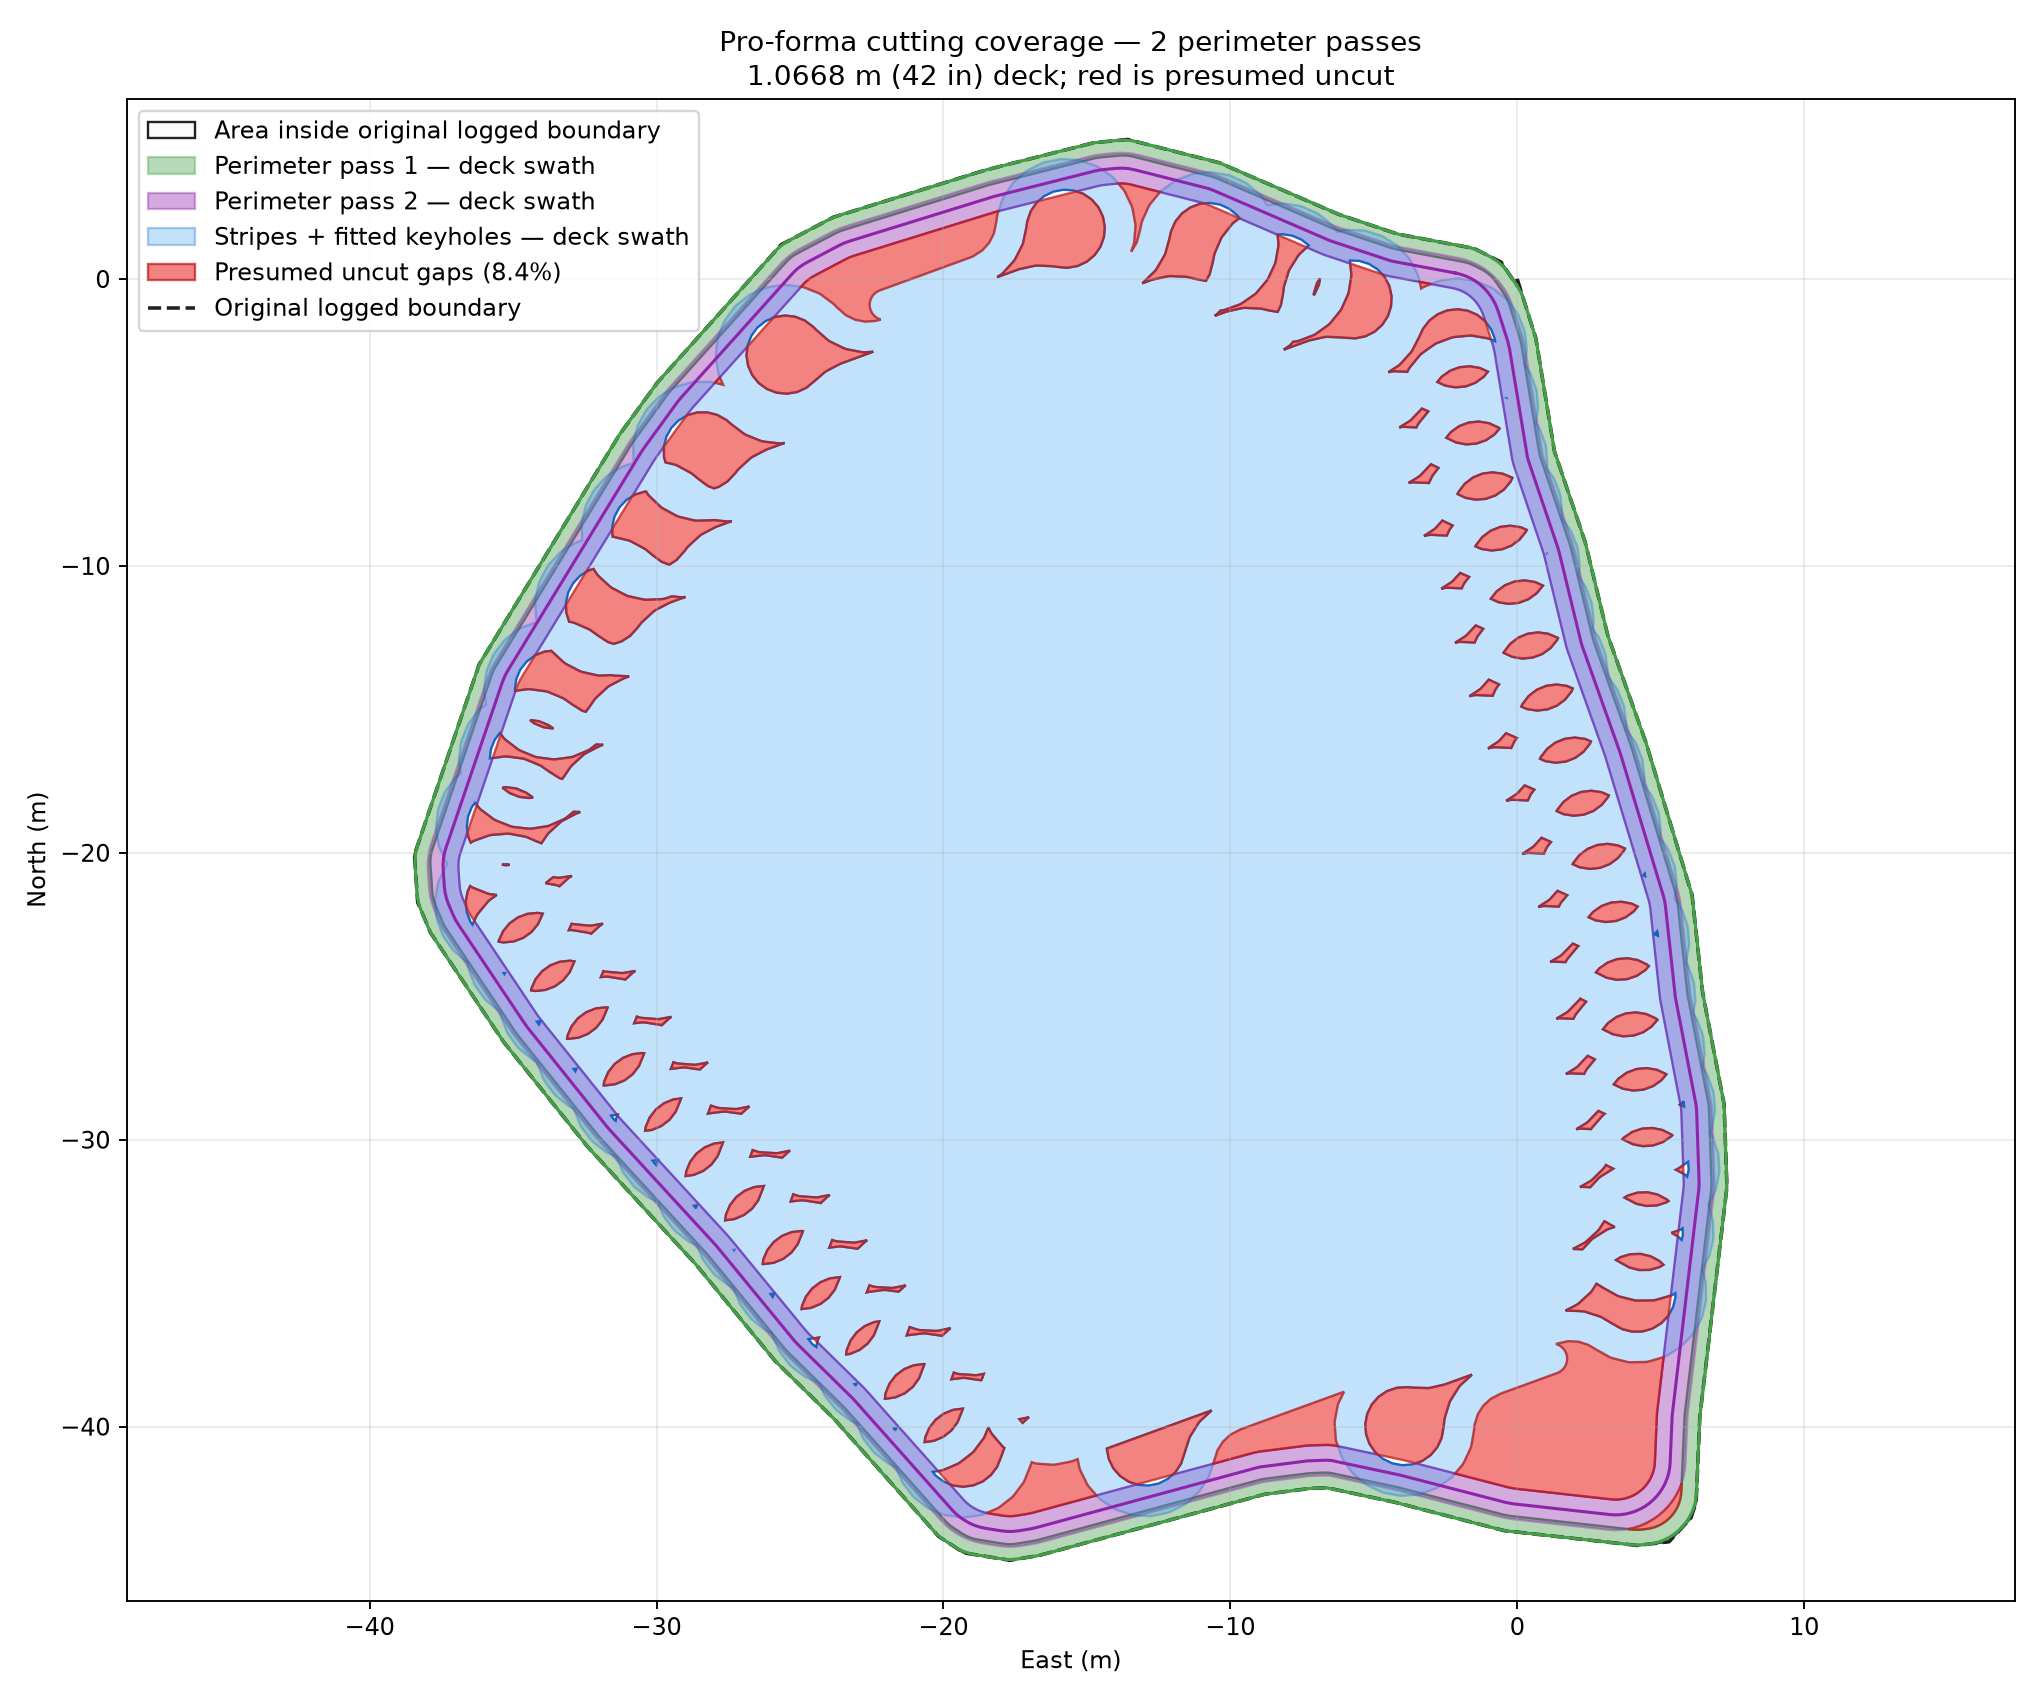
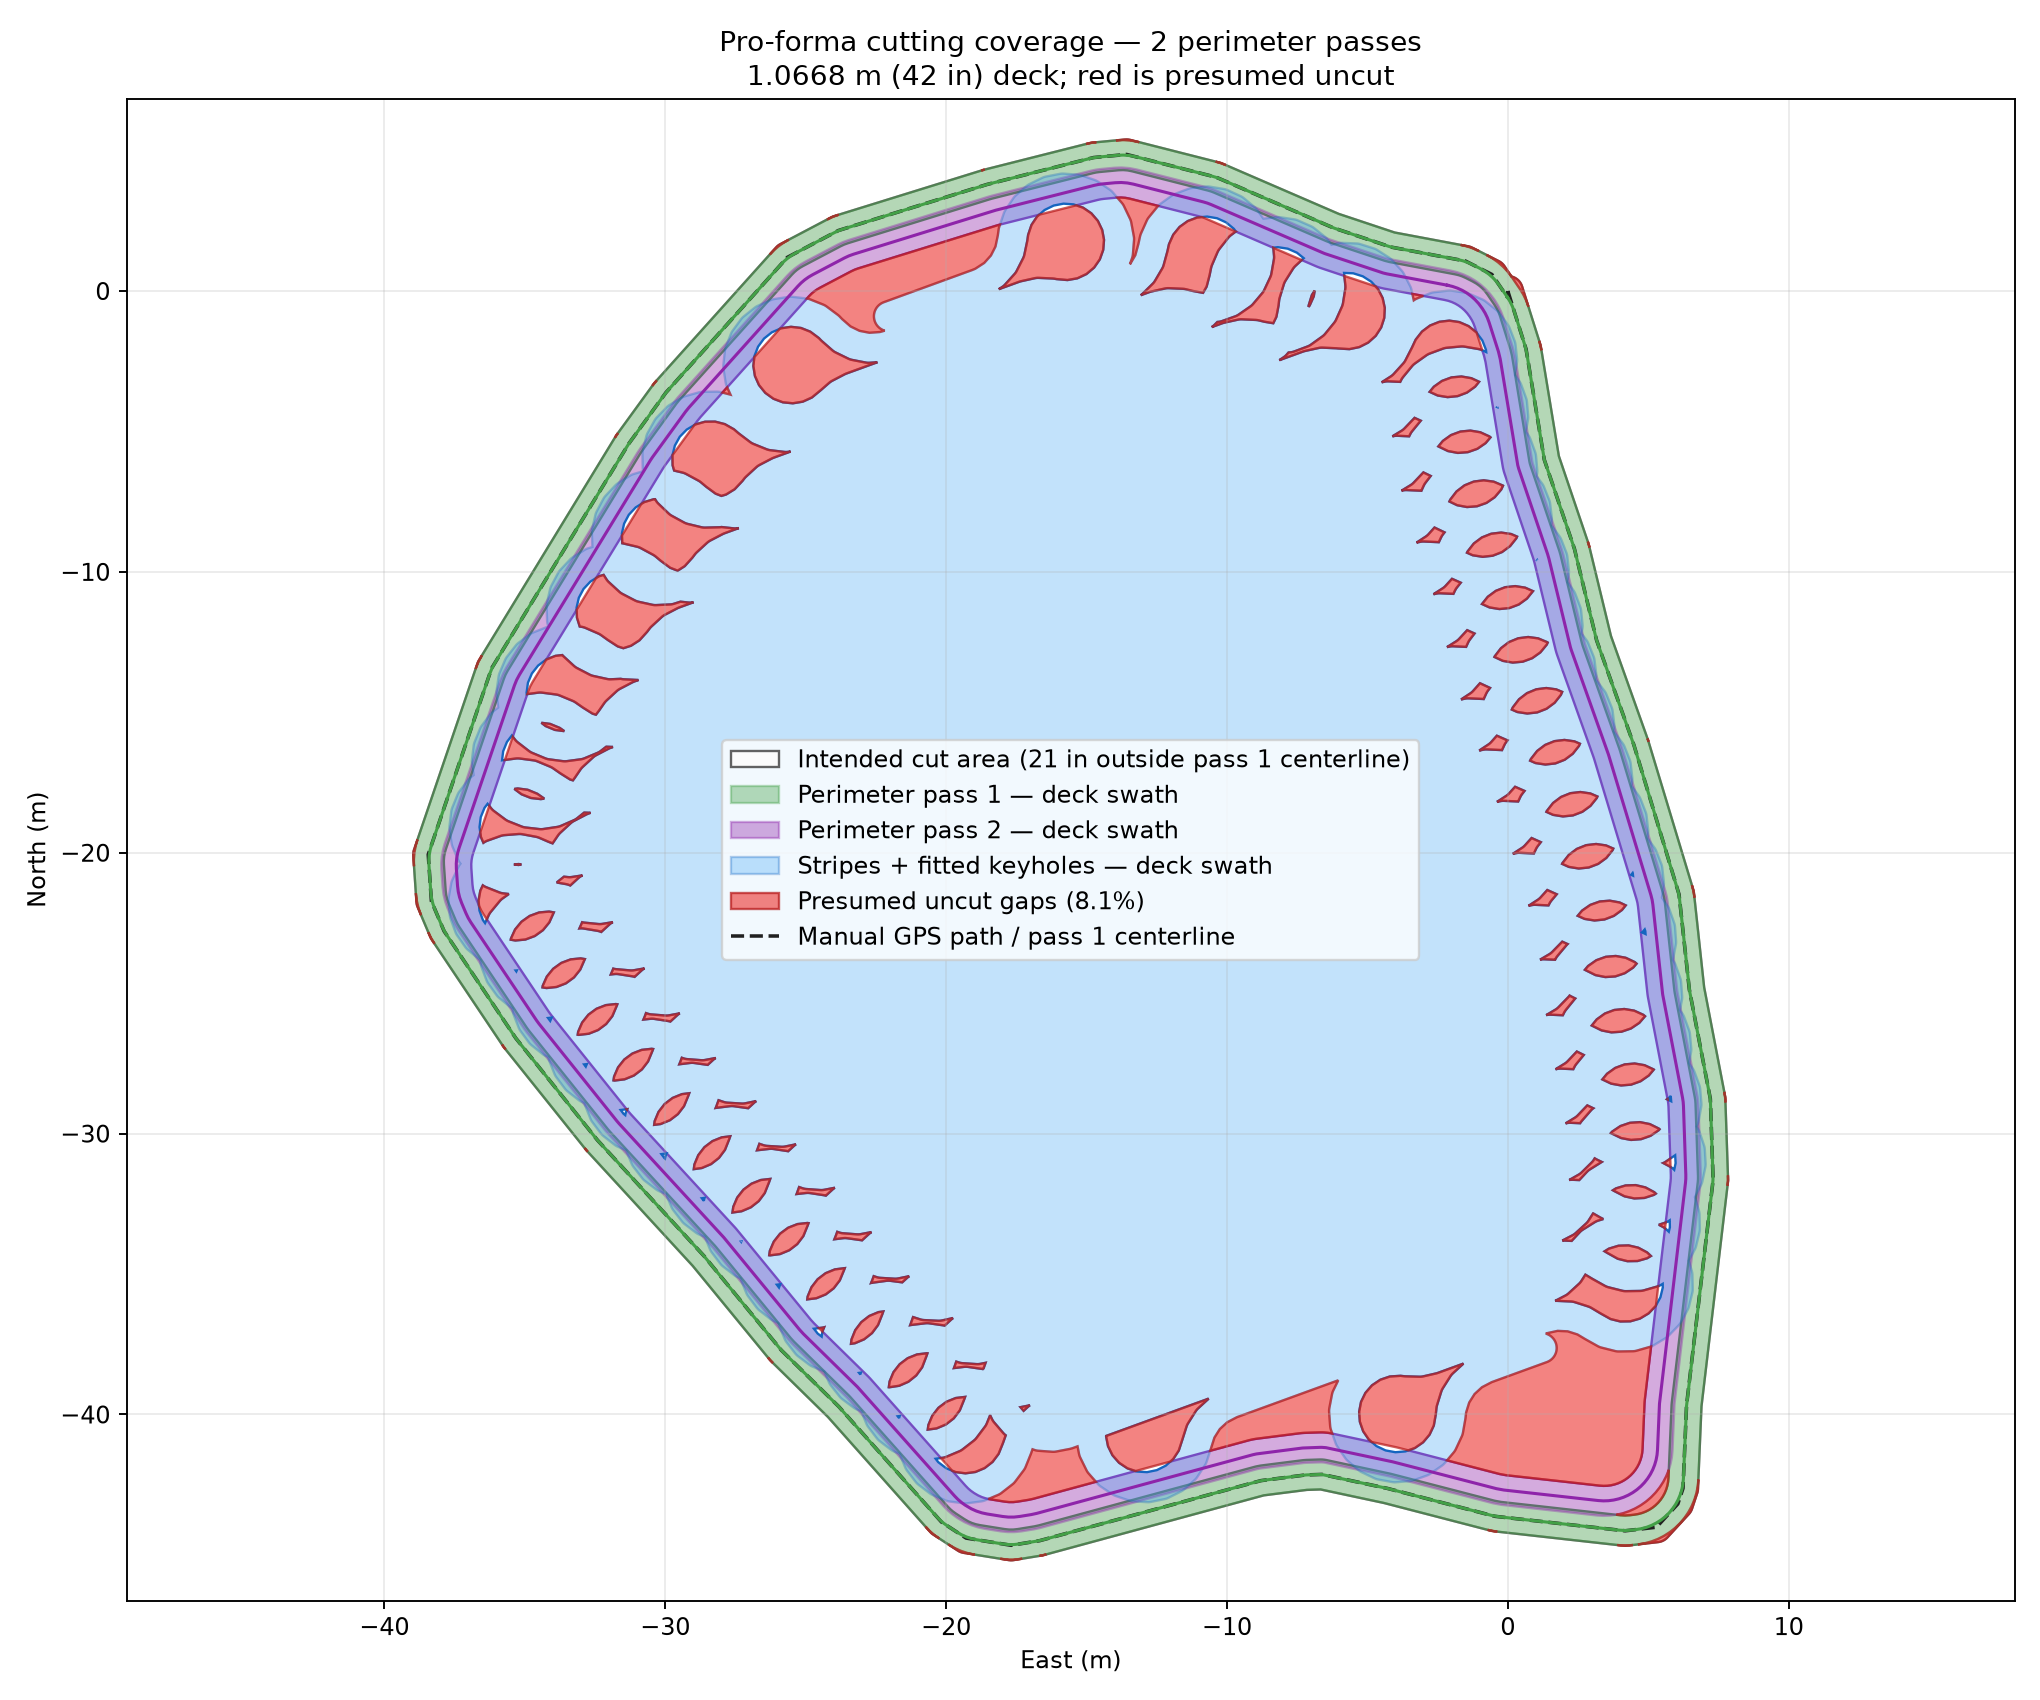
updates to the mission planning process

diff --git a/tractor_rpi/pure-pursuit/mission_planning/site_coverage_planner_20260724.py b/tractor_rpi/pure-pursuit/mission_planning/site_coverage_planner_20260724.py
@@ -1135,19 +1135,23 @@ def run_preview(args: argparse.Namespace) -> int:
             connector_lines.append(LineString(connector["points"]))
     interior_swath = unary_union(stripe_lines + connector_lines).buffer(deck_radius_m)
     all_swaths = unary_union([*headland_swaths.values(), interior_swath])
-    presumed_gaps = boundary.difference(all_swaths)
-    gap_percent = 100.0 * presumed_gaps.area / boundary.area
+    # The logged boundary is the manually driven pass-1 GPS/base_link
+    # centerline, not the outer cutting edge. The intended cut area therefore
+    # extends one half-deck width outward from that centerline.
+    intended_cut_area = boundary.buffer(deck_radius_m, join_style="round")
+    presumed_gaps = intended_cut_area.difference(all_swaths)
+    gap_percent = 100.0 * presumed_gaps.area / intended_cut_area.area
 
     fig, ax = plt.subplots(figsize=(12, 10))
     draw_polygon(
-        ax, boundary, facecolor="#fafafa", edgecolor="#212121",
-        alpha=1.0, label="Area inside original logged boundary",
+        ax, intended_cut_area, facecolor="#fafafa", edgecolor="#616161",
+        alpha=1.0, label="Intended cut area (21 in outside pass 1 centerline)",
     )
     pass_colors = {1: "#43a047", 2: "#8e24aa"}
     for pass_number, swath in headland_swaths.items():
         draw_polygon(
             ax,
-            swath.intersection(boundary),
+            swath.intersection(intended_cut_area),
             facecolor=pass_colors.get(pass_number, "#00897b"),
             edgecolor=pass_colors.get(pass_number, "#00897b"),
             alpha=0.38,
@@ -1155,7 +1159,7 @@ def run_preview(args: argparse.Namespace) -> int:
         )
     draw_polygon(
         ax,
-        interior_swath.intersection(boundary),
+        interior_swath.intersection(intended_cut_area),
         facecolor="#42a5f5",
         edgecolor="#1565c0",
         alpha=0.32,
@@ -1172,7 +1176,7 @@ def run_preview(args: argparse.Namespace) -> int:
         )
     ax.plot(
         boundary_x, boundary_y, color="#212121", linestyle="--",
-        linewidth=1.5, label="Original logged boundary",
+        linewidth=1.5, label="Manual GPS path / pass 1 centerline",
     )
     for path in headlands:
         pass_number = int(path["pass"])

diff --git a/tractor_rpi/pure-pursuit/mission_planning/SITE_COVERAGE_MISSION_WORKFLOW_20260724.md b/tractor_rpi/pure-pursuit/mission_planning/SITE_COVERAGE_MISSION_WORKFLOW_20260724.md
@@ -661,8 +661,10 @@ Outputs:
   compact keyholes; red connectors are boundary fallbacks requiring review.
 - `02_mower_deck_coverage.png` — pro-forma 42-inch cutting coverage. It
   separately colors perimeter pass 1, perimeter pass 2, and the interior
-  stripes/keyholes; outlines the original logged boundary; and marks presumed
-  uncut gaps in red. This is a conservative Step 3 model because small splice
+  stripes/keyholes; shows the original logged GPS path as the pass 1
+  centerline; and marks presumed uncut gaps in red. The intended cutting area
+  extends one half-deck width (21 inches) outward from the manually driven
+  pass 1 centerline. This is a conservative Step 3 model because small splice
   connectors added during Step 4 are not yet available.
 - `02_coverage_preview.png` — boundary, safe area, headlands, obstacles,
   numbered stripe arrows, and the preferred splice anchor.
@@ -682,7 +684,7 @@ overlap, then review `02_coverage_preview.png`, `02_coverage_segments.csv`, and
 | Parameter | Meaning |
 |---|---|
 | `lane-spacing-m` | Center-to-center cut spacing. The selected 38-inch spacing is `0.9652 m`, giving about 4 inches of nominal overlap with the 42-inch (`1.0668 m`) deck. Verify actual cut width and GPS tracking. |
-| `deck-width-m` | Cutting width used only for the pro-forma coverage/gap plot. The current 42-inch deck is `1.0668 m`. This does not alter the planned centerline paths. |
+| `deck-width-m` | Cutting width used only for the pro-forma coverage/gap plot. The current 42-inch deck is `1.0668 m`, centered on the rear-axle GPS/base_link. The logged boundary is the manually driven pass 1 centerline, so the modeled intended cutting area extends 21 inches outward from it. This does not alter the planned centerline paths. |
 | `boundary-clearance-m` | Distance from the logged perimeter to the tractor reference point. Set it from deck/body overhang, survey meaning, GPS error, and desired safety margin. |
 | `headland-passes` | Perimeter coverage passes before interior stripes. This creates working room but does not by itself guarantee a feasible U-turn. |
 | `outer-headland-follows-boundary` | Opt-in only when the finalized, manually driven boundary already includes the required property/homeowner safety buffer. Pass 1 follows that boundary with tractor-radius corner rounding and no uniform inset. Pass 2 is one `lane-spacing-m` inward, pass 3 is two spacings inward, and so on. |
